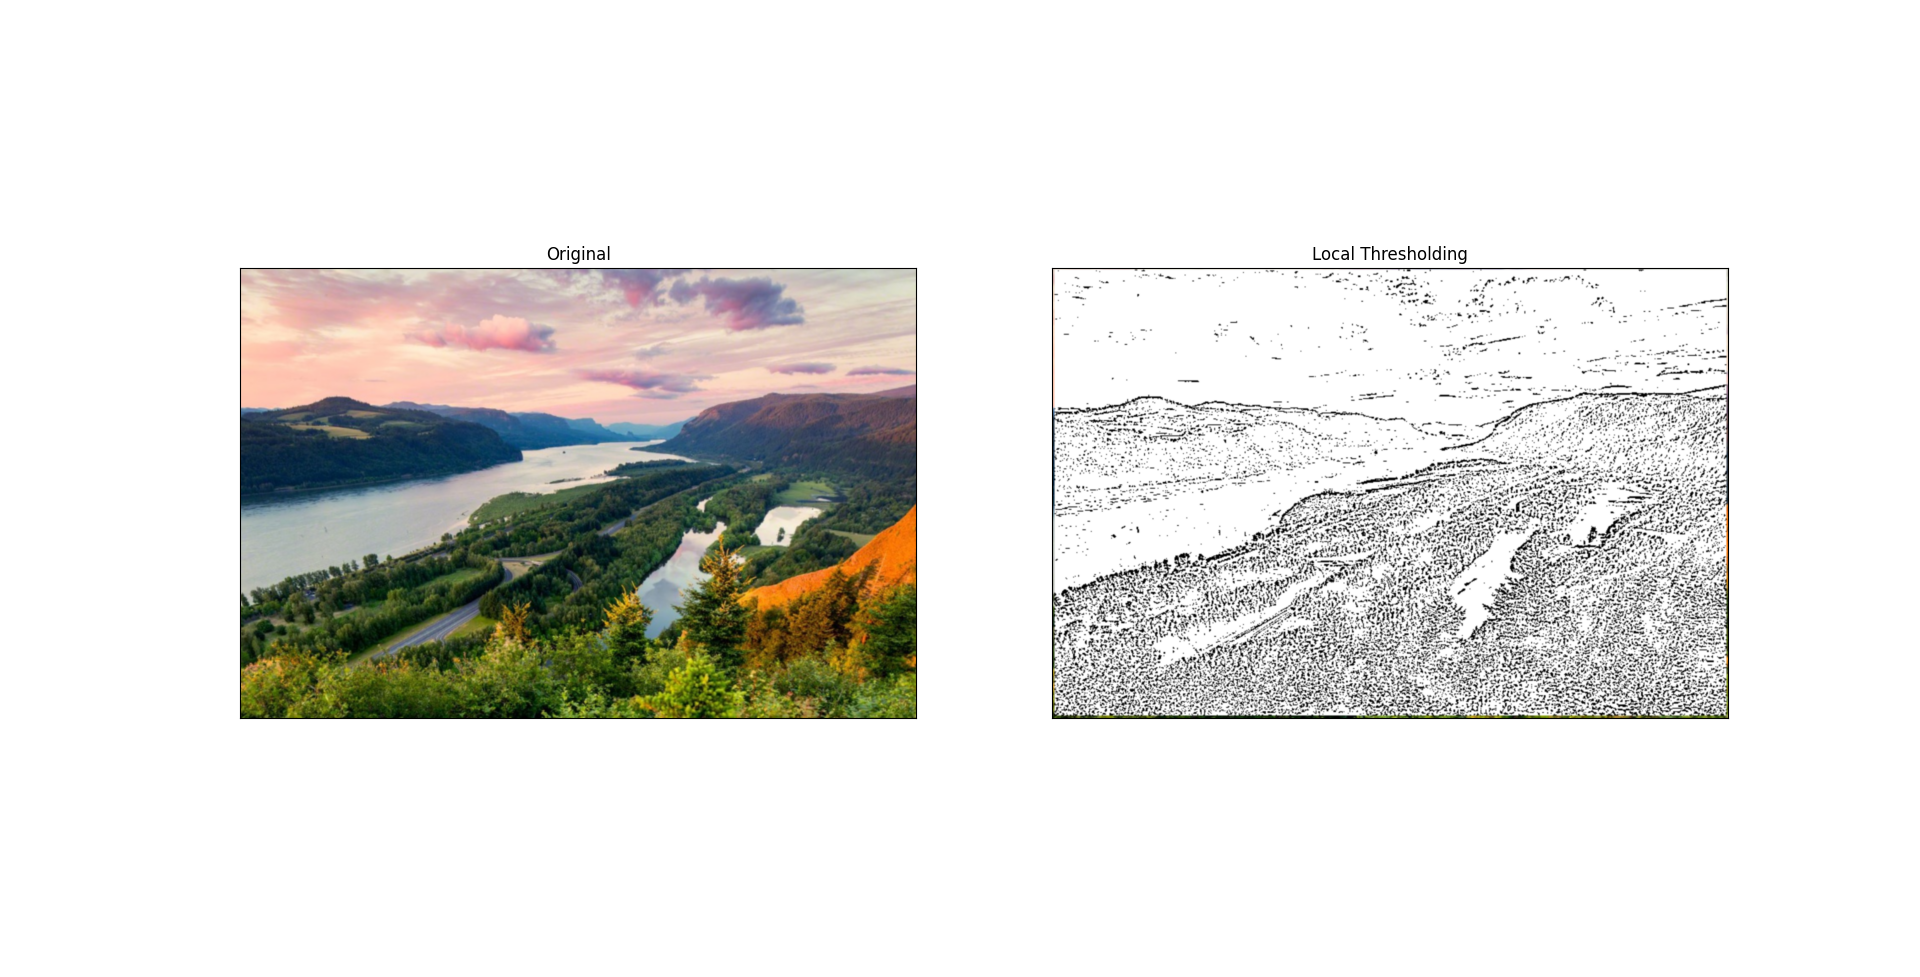
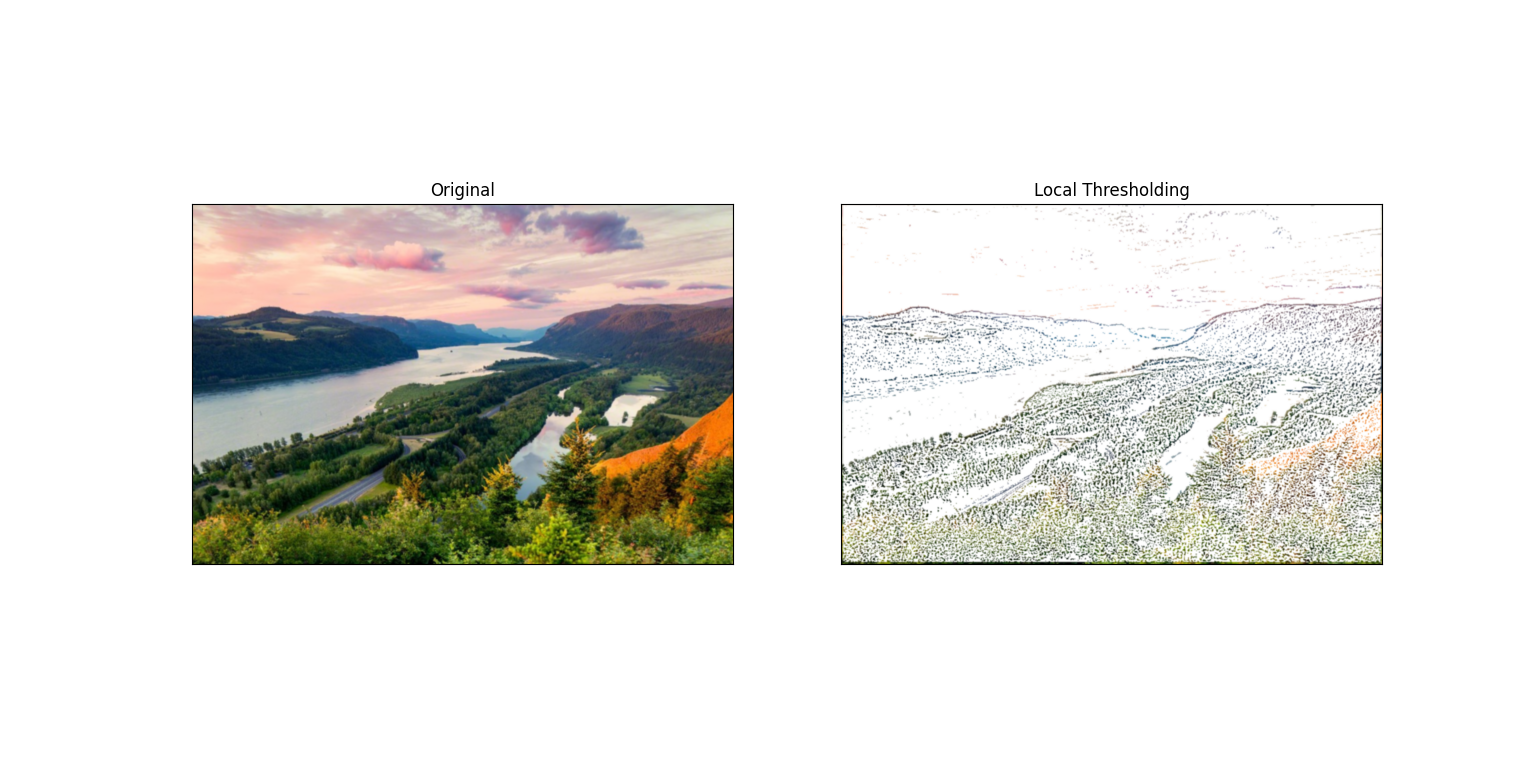
local thresholding fixed

diff --git a/ImageEnhancement.py b/ImageEnhancement.py
@@ -81,6 +81,11 @@ def apply_thresholding(image, output, kernel_size):
                 if image[i,j] > threshold:
                     output[i,j] = 255
 
+    if not image_is_in_gray_scale(image):
+        for i in range(output.shape[0]):
+            for j in range(output.shape[1]):
+                if not np.array_equal(output[i, j], [255, 255, 255]):
+                    output[i, j] = image[i, j]
     return output.astype(np.uint8)
 
 def histogram_equalization(image):

diff --git a/main.py b/main.py
@@ -12,10 +12,10 @@ import cv2
 path= 'images/1577x1365.png'
 #path= 'images/745x419.jpg'
 #path = 'images/402x588.png'
-#path= 'images/columbia.jpg'
+path= 'images/columbia.jpg'
 #path= 'images/306x341.png'
 #path= 'images/sonnet.png'
-color_scale = "gray"
+color_scale = "rgb"
 image = read_image(path, color_scale)
 
 # Threshold
